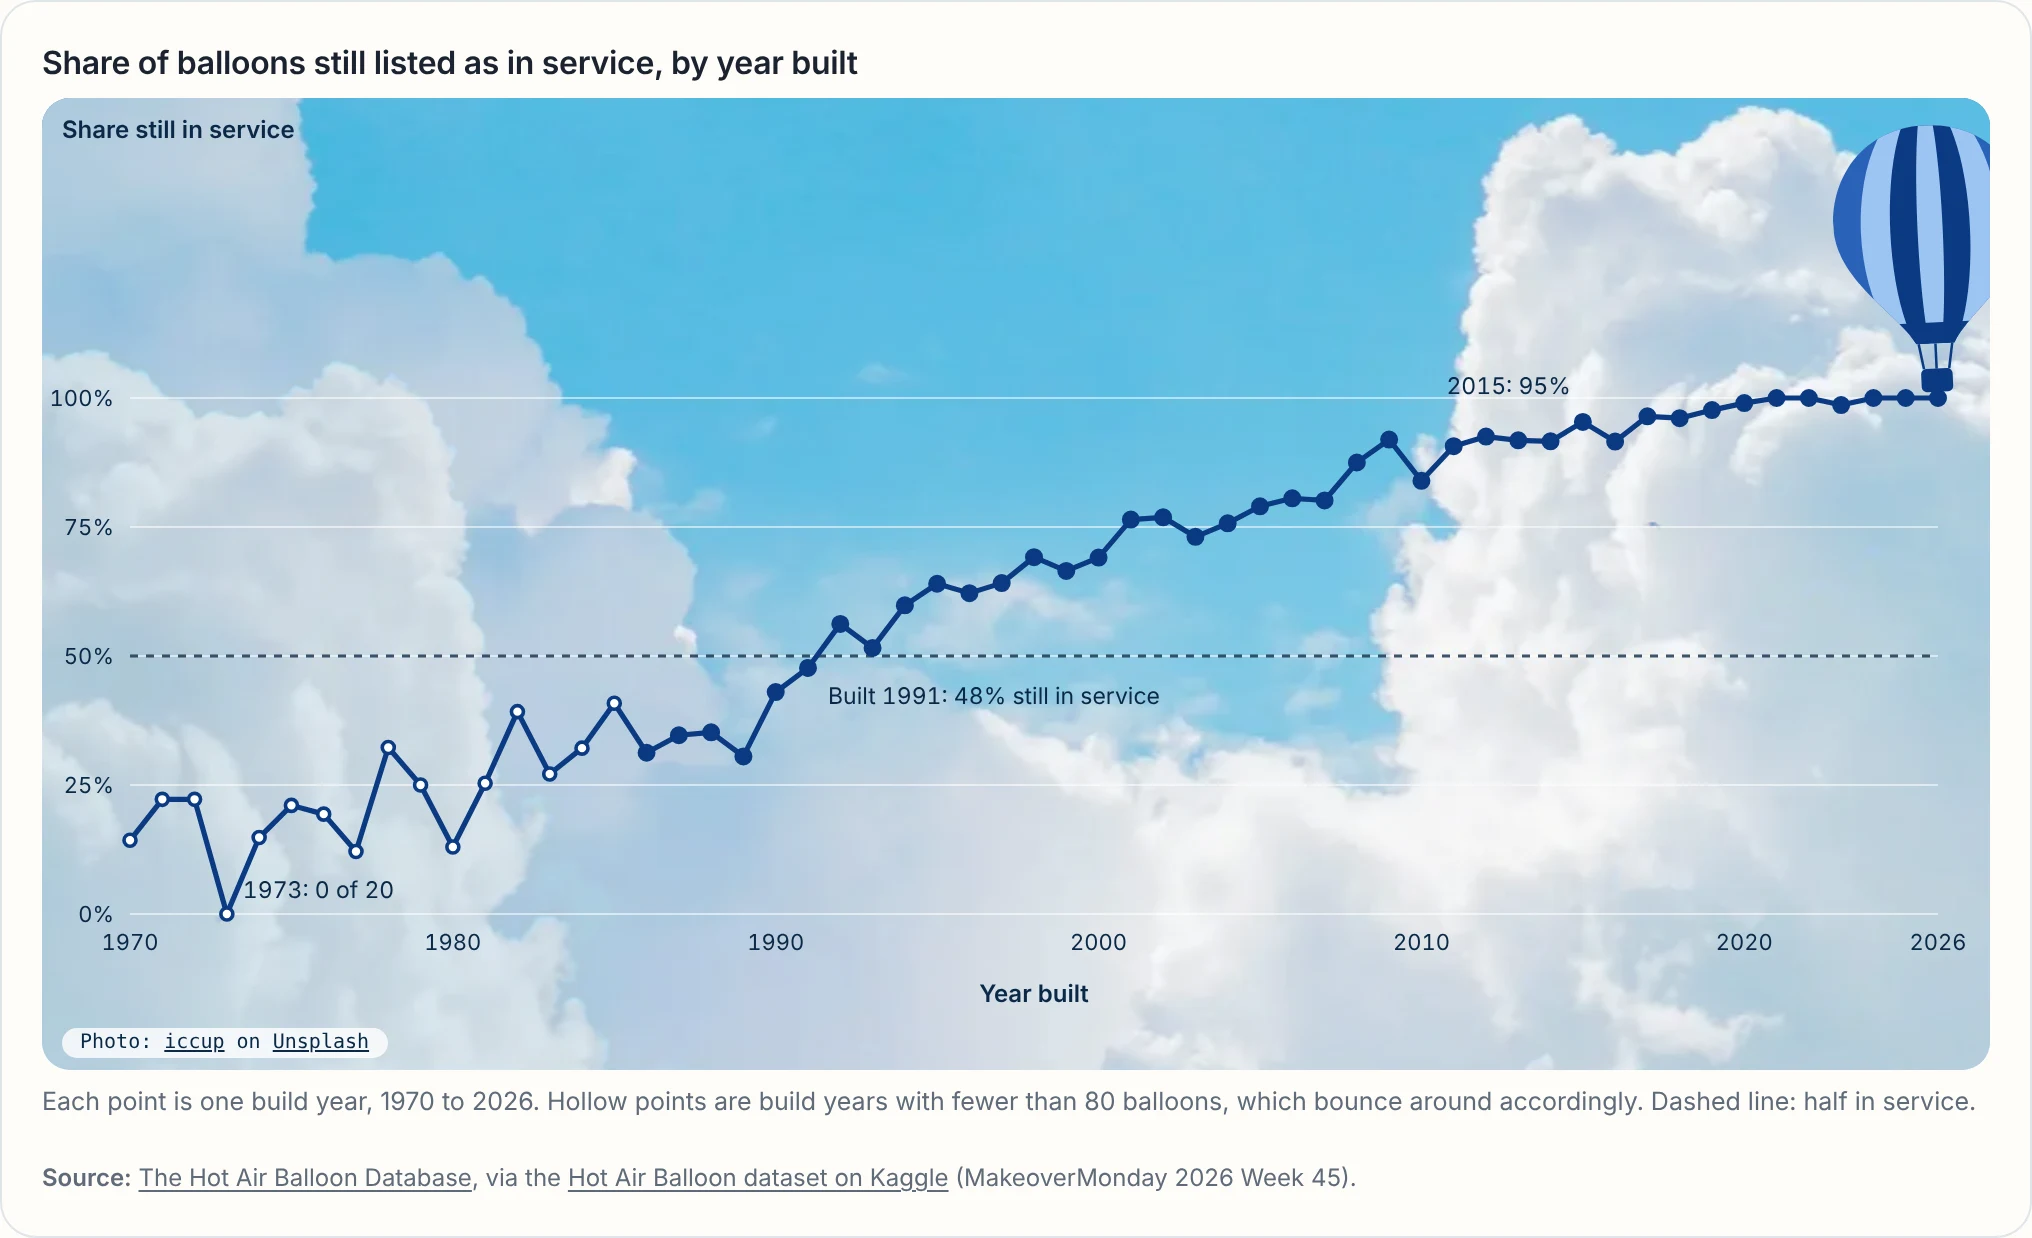
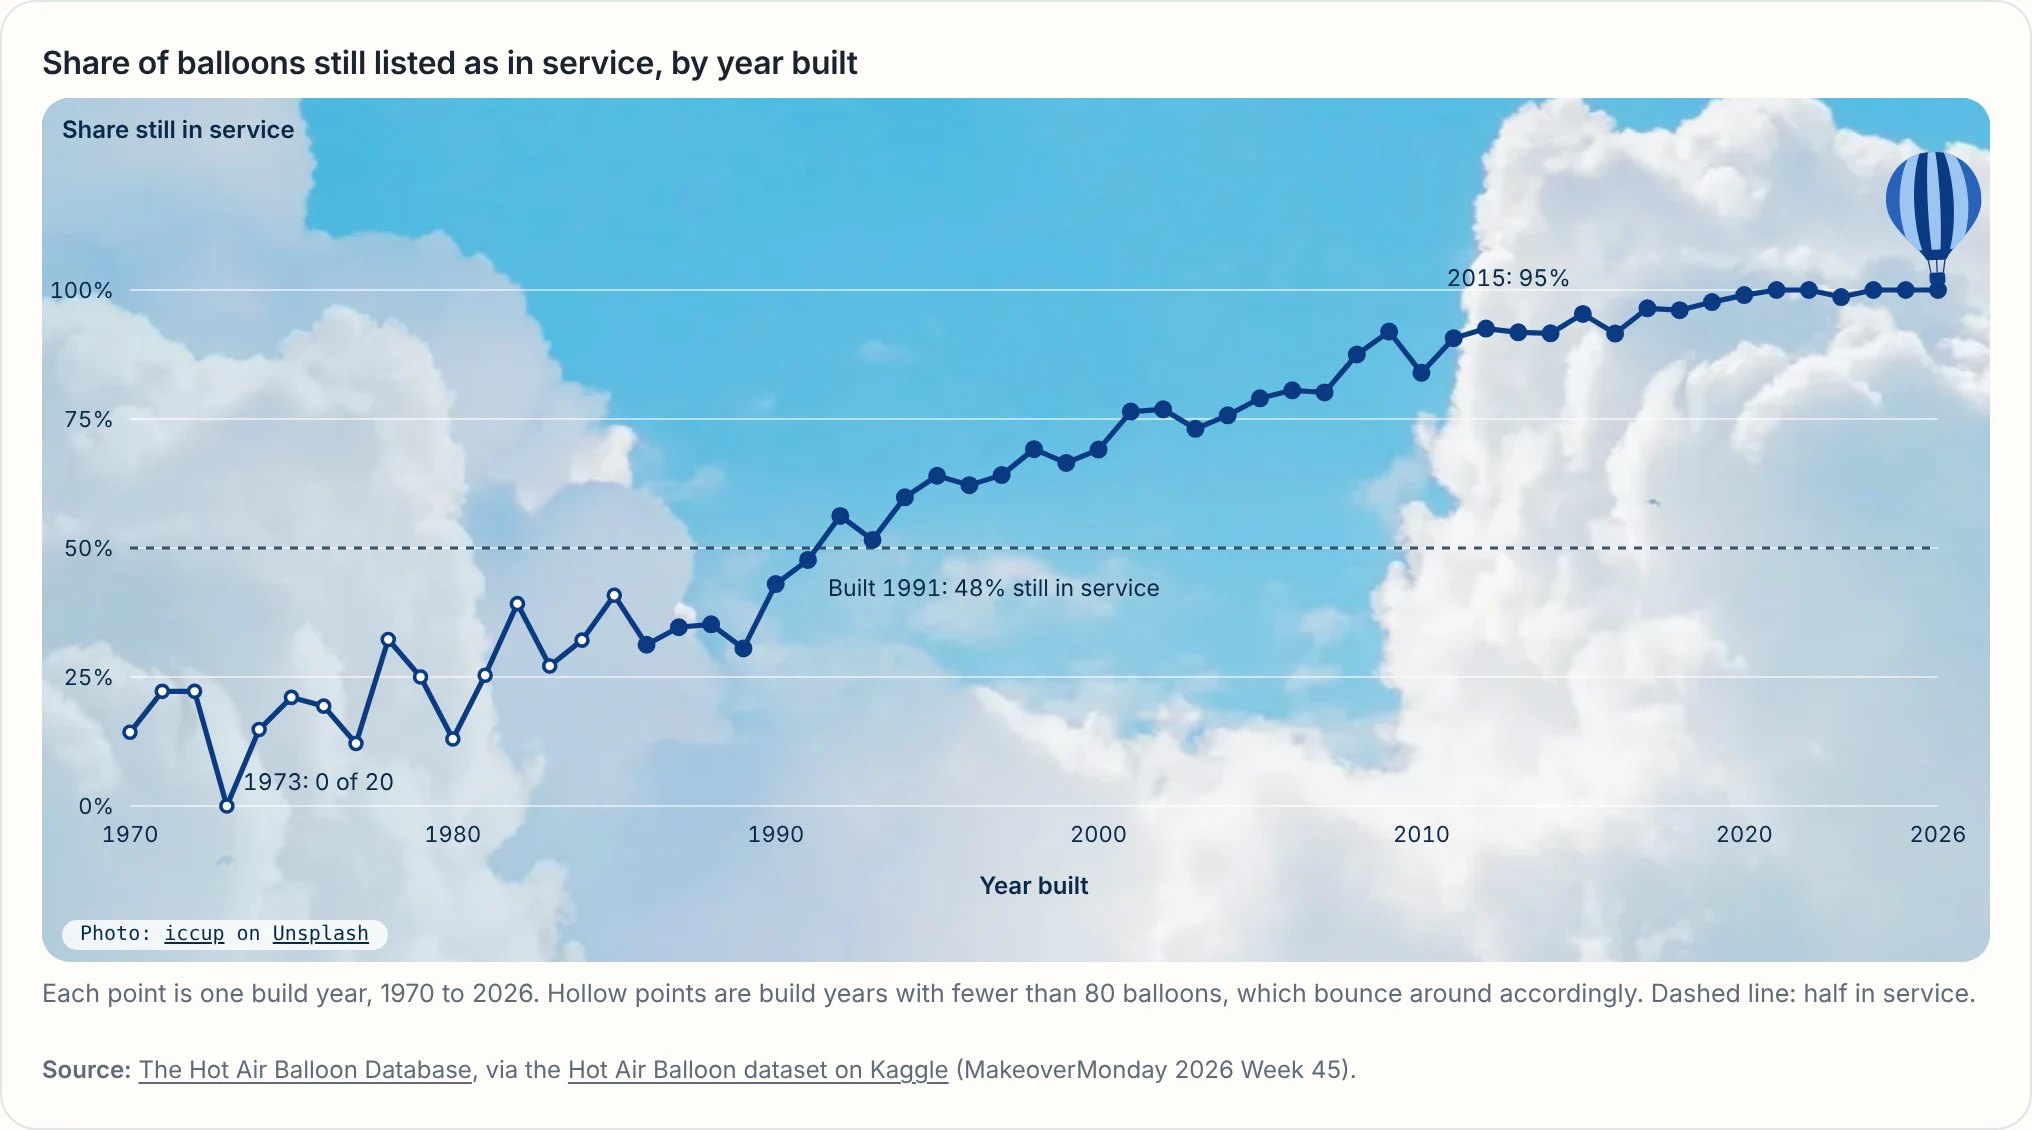
Halve the balloon size on the chart
Claude-Session: https://claude.ai/code/session_01UJ1HEyH6uF5w3cQEo98E3x

diff --git a/index.html b/index.html
@@ -173,7 +173,7 @@ else if(y){const ms=MS.filter(x=>x.y===+y.dataset.y);const a=ms[0].i,b=ms[ms.len
 else return;tl();draw()};
 document.getElementById("clr").onclick=()=>{S.a=S.b=null;S.pend=false;tl();draw()};
 tl();draw();
-const FEAT=[{"k": "mn-dist", "u": "mn-turkey/", "t": "How far would the turkeys have to travel if Mexico said no?", "o": "Mexico takes 71% of Minnesota's turkey export dollars from about 1,800 miles away, and 75% of all export dollars go to markets within 2,000 miles. If Mexico bought nothing and the other markets refilled the gap, the average mapped export dollar would travel about 2,500 miles instead of 1,910, and only 14% of all export dollars would stay within 2,000 miles. Distances are straight lines to capitals, and the dollars are estimates from 2023-era data. The pugs prefer their customers within barking distance.", "w": 2080, "h": 1539, "alt": [{"l": "How far?", "k": "mn-dist", "t": "How far would the turkeys have to travel if Mexico said no?", "o": "Mexico takes 71% of Minnesota's turkey export dollars from about 1,800 miles away, and 75% of all export dollars go to markets within 2,000 miles. If Mexico bought nothing and the other markets refilled the gap, the average mapped export dollar would travel about 2,500 miles instead of 1,910, and only 14% of all export dollars would stay within 2,000 miles. Distances are straight lines to capitals, and the dollars are estimates from 2023-era data. The pugs prefer their customers within barking distance."}, {"l": "Who refills?", "k": "mn-dist", "t": "Could anyone else buy Mexico's share of the turkeys?", "o": "Mexico takes an estimated $73.8 million of Minnesota's $104 million in turkey exports. To refill that gap, every other market would need to buy about 3.5 times as much (3.3 to 3.6 once rounding is allowed for), and the new customers would be farther away. It is arithmetic, not a forecast, on data about three years old. The pugs are not sure the neighbors have room in the freezer."}]}, {"k": "hb-surv", "u": "hot-air-balloons/", "t": "How long before a toy ends up in the closet?", "o": "A hot air balloon built in the early 1990s is a coin flip: 52% of the 1,052 built from 1990 to 1994 are still listed as in service, with a 95% range of 49% to 55%. From the 1970s it is 20%; from the 2010s, 93%. There is no cliff, just a steady climb, though this is a snapshot of the archive and not a true survival curve, so old balloons probably look more durable than they were. Watch the balloon lead the line up through the build years. The pug's toys last four minutes.", "w": 2032, "h": 1238}, {"k": "pz-ai", "u": "pisa-2025/", "t": "Did the chatbot do the homework?", "o": "Weekly AI use among 15-year-olds runs from 26% in Ireland to 69% in Viet Nam, and it shows no detectable link with a country’s math score: the rank correlation is −0.05, and it is +0.03 against the change since 2022. No paw prints on the scoreboard, though the pugs would still like a word with the robot.", "w": 1772, "h": 1132}, {"k": "mc-trend", "u": "more-cowbell/", "t": "When did the cowbell have rizz?", "o": "In the 1970s: 230 songs, 37% of every dated song on the list, peaking at 38 in 1975. After 2003 the list nearly runs dry, 13 songs in 22 years, which says more about the list than about cowbell. The pugs have a fever, and you know the prescription.", "w": 1800, "h": 1300}, {"k": "cc-map", "u": "census-century/", "t": "How far can the middle of a country wander?", "o": "Between 1790 and 1900 the estimated center of the U.S. population moved about 500 miles west, from near Baltimore to southern Indiana, averaging 67 feet a day. It was no steady stroll: 120 feet a day in the 1850s, barely 19 in the 1890s. Mostly a pug pack's pace.", "w": 1936, "h": 1306}, {"k": "bb-stops", "u": "bigs-backyard/", "t": "Why does everyone get tired at exactly 100 miles?", "o": "Across four championships, about 8% of the runners still going quit at exactly 24 yards, the 100-mile mark. In 2026 one team, Spain, stopped together there, which pushed the pile to 60. Without it, the pile is still twice the yards around it. Round numbers are a magnet, and teams make them stronger. The pugs call it a day at the mailbox.", "w": 1936, "h": 1522}, {"k": "bw-animals", "u": "bears-will-be-boys/", "t": "Where are all the girl frogs?", "o": "In these picture books, 16 of 17 frogs are he/him, which sounds damning. But the whole genre runs about two boys to one girl, and with so few frogs, luck is a fair defense. Five animals do stray past the luck line, birds and cats leaning girl and frogs and foxes leaning boy, though none is a sure outlier. The pugs are still watching the casting department.", "w": 1936, "h": 1360}, {"k": "tn-offseason", "u": "tourism-nights/", "t": "Cities stay busy after summer. Which regions jump at Christmas?", "o": "Only 41 of 237 EU regions get an even year’s share of nights in October to December, and the EU total, 18.1%, is pulled down by huge summer coasts. Cities stay level from October to December. Alsace, Northern and Eastern Finland and South-West Oltenia jump two to four times in December. The pugs follow the Christmas markets.", "w": 1832, "h": 1072}, {"k": "uf-rate", "u": "ufo-sightings/", "t": "Which states really keep their eyes on the sky, and which are just small?", "o": "Florida, California and Texas send the most UFO reports, but they also have the most people. Per resident, New Mexico leads with 11.8 reports per million against 4.0 nationally. Of 51 states, 19 fall outside the luck funnel, where a weighted coin dealing out the same 1,317 reports flags only about 3.5. California (3.0) and Texas (2.8) sit below the national rate. The pugs bark at the sky in every state, for the record.", "w": 1936, "h": 1172}, {"k": "cf-scatter", "u": "cfb-budgets/", "t": "Can you buy your way into the Top 25?", "o": "Not reliably. All ten of the biggest roster budgets are in the AP Top 25, but seven of the 25 biggest are not: Florida, South Carolina, Auburn, Nebraska, Clemson, Wisconsin and UCLA, together about $223M. Oregon has the 2nd-biggest budget and ranks 21st, while Houston, Iowa and Utah made the poll on the three smallest budgets of any ranked team. Pick your team on the page to follow its line. The pugs’ vote can be bought with treats.", "w": 1800, "h": 1852}];
+const FEAT=[{"k": "mn-dist", "u": "mn-turkey/", "t": "How far would the turkeys have to travel if Mexico said no?", "o": "Mexico takes 71% of Minnesota's turkey export dollars from about 1,800 miles away, and 75% of all export dollars go to markets within 2,000 miles. If Mexico bought nothing and the other markets refilled the gap, the average mapped export dollar would travel about 2,500 miles instead of 1,910, and only 14% of all export dollars would stay within 2,000 miles. Distances are straight lines to capitals, and the dollars are estimates from 2023-era data. The pugs prefer their customers within barking distance.", "w": 2080, "h": 1539, "alt": [{"l": "How far?", "k": "mn-dist", "t": "How far would the turkeys have to travel if Mexico said no?", "o": "Mexico takes 71% of Minnesota's turkey export dollars from about 1,800 miles away, and 75% of all export dollars go to markets within 2,000 miles. If Mexico bought nothing and the other markets refilled the gap, the average mapped export dollar would travel about 2,500 miles instead of 1,910, and only 14% of all export dollars would stay within 2,000 miles. Distances are straight lines to capitals, and the dollars are estimates from 2023-era data. The pugs prefer their customers within barking distance."}, {"l": "Who refills?", "k": "mn-dist", "t": "Could anyone else buy Mexico's share of the turkeys?", "o": "Mexico takes an estimated $73.8 million of Minnesota's $104 million in turkey exports. To refill that gap, every other market would need to buy about 3.5 times as much (3.3 to 3.6 once rounding is allowed for), and the new customers would be farther away. It is arithmetic, not a forecast, on data about three years old. The pugs are not sure the neighbors have room in the freezer."}]}, {"k": "hb-surv", "u": "hot-air-balloons/", "t": "How long before a toy ends up in the closet?", "o": "A hot air balloon built in the early 1990s is a coin flip: 52% of the 1,052 built from 1990 to 1994 are still listed as in service, with a 95% range of 49% to 55%. From the 1970s it is 20%; from the 2010s, 93%. There is no cliff, just a steady climb, though this is a snapshot of the archive and not a true survival curve, so old balloons probably look more durable than they were. Watch the balloon lead the line up through the build years. The pug's toys last four minutes.", "w": 2032, "h": 1130}, {"k": "pz-ai", "u": "pisa-2025/", "t": "Did the chatbot do the homework?", "o": "Weekly AI use among 15-year-olds runs from 26% in Ireland to 69% in Viet Nam, and it shows no detectable link with a country’s math score: the rank correlation is −0.05, and it is +0.03 against the change since 2022. No paw prints on the scoreboard, though the pugs would still like a word with the robot.", "w": 1772, "h": 1132}, {"k": "mc-trend", "u": "more-cowbell/", "t": "When did the cowbell have rizz?", "o": "In the 1970s: 230 songs, 37% of every dated song on the list, peaking at 38 in 1975. After 2003 the list nearly runs dry, 13 songs in 22 years, which says more about the list than about cowbell. The pugs have a fever, and you know the prescription.", "w": 1800, "h": 1300}, {"k": "cc-map", "u": "census-century/", "t": "How far can the middle of a country wander?", "o": "Between 1790 and 1900 the estimated center of the U.S. population moved about 500 miles west, from near Baltimore to southern Indiana, averaging 67 feet a day. It was no steady stroll: 120 feet a day in the 1850s, barely 19 in the 1890s. Mostly a pug pack's pace.", "w": 1936, "h": 1306}, {"k": "bb-stops", "u": "bigs-backyard/", "t": "Why does everyone get tired at exactly 100 miles?", "o": "Across four championships, about 8% of the runners still going quit at exactly 24 yards, the 100-mile mark. In 2026 one team, Spain, stopped together there, which pushed the pile to 60. Without it, the pile is still twice the yards around it. Round numbers are a magnet, and teams make them stronger. The pugs call it a day at the mailbox.", "w": 1936, "h": 1522}, {"k": "bw-animals", "u": "bears-will-be-boys/", "t": "Where are all the girl frogs?", "o": "In these picture books, 16 of 17 frogs are he/him, which sounds damning. But the whole genre runs about two boys to one girl, and with so few frogs, luck is a fair defense. Five animals do stray past the luck line, birds and cats leaning girl and frogs and foxes leaning boy, though none is a sure outlier. The pugs are still watching the casting department.", "w": 1936, "h": 1360}, {"k": "tn-offseason", "u": "tourism-nights/", "t": "Cities stay busy after summer. Which regions jump at Christmas?", "o": "Only 41 of 237 EU regions get an even year’s share of nights in October to December, and the EU total, 18.1%, is pulled down by huge summer coasts. Cities stay level from October to December. Alsace, Northern and Eastern Finland and South-West Oltenia jump two to four times in December. The pugs follow the Christmas markets.", "w": 1832, "h": 1072}, {"k": "uf-rate", "u": "ufo-sightings/", "t": "Which states really keep their eyes on the sky, and which are just small?", "o": "Florida, California and Texas send the most UFO reports, but they also have the most people. Per resident, New Mexico leads with 11.8 reports per million against 4.0 nationally. Of 51 states, 19 fall outside the luck funnel, where a weighted coin dealing out the same 1,317 reports flags only about 3.5. California (3.0) and Texas (2.8) sit below the national rate. The pugs bark at the sky in every state, for the record.", "w": 1936, "h": 1172}, {"k": "cf-scatter", "u": "cfb-budgets/", "t": "Can you buy your way into the Top 25?", "o": "Not reliably. All ten of the biggest roster budgets are in the AP Top 25, but seven of the 25 biggest are not: Florida, South Carolina, Auburn, Nebraska, Clemson, Wisconsin and UCLA, together about $223M. Oregon has the 2nd-biggest budget and ranks 21st, while Houston, Iowa and Utah made the poll on the three smallest budgets of any ranked team. Pick your team on the page to follow its line. The pugs’ vote can be bought with treats.", "w": 1800, "h": 1852}];
 (function potd(){const now=new Date(),day=Math.floor(Date.UTC(now.getFullYear(),now.getMonth(),now.getDate())/864e5),f=FEAT[day%FEAT.length],p=P.find(x=>x.u===f.u);if(!p)return;
 const q="q"+(Math.floor(p.mo/3)+1),el=document.getElementById("potd");el.className="potd-body "+q;
 document.getElementById("potd-date").textContent=now.toLocaleDateString("en-US",{weekday:"long",month:"long",day:"numeric",year:"numeric"});

diff --git a/hot-air-balloons/index.html b/hot-air-balloons/index.html
@@ -368,8 +368,8 @@ function skyBalloon(parent,s){
   el("line",{x1:0,y1:-3,x2:0,y2:0,stroke:"#0b3a82","stroke-width":1.4},g);
   return{g,flame:el("g",{},g)}}
 
-function surv(){const d=D.surv,{svg,w,h,hit,small}=stage("c-surv",486,"Animated line chart: share of balloons still in service rises from about 15 percent for 1970s builds to nearly 100 percent for 2020s builds, crossing one half around 1991");
-  const L=44,R=26,T=150,B=78,x=lin(1970,2026,L,w-R),y=lin(0,1,h-B,T),INK="#0b3a82";
+function surv(){const d=D.surv,{svg,w,h,hit,small}=stage("c-surv",432,"Animated line chart: share of balloons still in service rises from about 15 percent for 1970s builds to nearly 100 percent for 2020s builds, crossing one half around 1991");
+  const L=44,R=26,T=96,B=78,x=lin(1970,2026,L,w-R),y=lin(0,1,h-B,T),INK="#0b3a82";
   txt(svg,"Share still in service",{x:10,y:20,class:"axt"});txt(svg,"Year built",{x:(L+w-R)/2,y:h-B+44,"text-anchor":"middle",class:"axt"});
   [0,.25,.5,.75,1].forEach(t=>{el("line",{x1:L,x2:w-R,y1:y(t),y2:y(t),class:"gl"},svg);txt(svg,pct(t),{x:L-8,y:y(t)+4,"text-anchor":"end",class:"tick"})});
   (small?[1970,1990,2010,2026]:[1970,1980,1990,2000,2010,2020,2026]).forEach(t=>txt(svg,t,{x:x(t),y:h-B+18,"text-anchor":"middle",class:"tick"}));
@@ -380,7 +380,7 @@ function surv(){const d=D.surv,{svg,w,h,hit,small}=stage("c-surv",486,"Animated 
   const dots=d.map(p=>el("circle",{cx:x(p.y),cy:y(p.in/p.n),r:p.n<80?3:4,fill:p.n<80?"#fff":INK,stroke:INK,"stroke-width":p.n<80?1.8:1,class:"sd"},svg));
   const labs=[];const lab=(yr,s,dx,dy,a)=>{const p=d.find(q=>q.y===yr);const t=txt(svg,s.replace("%",pct(p.in/p.n)),{x:x(yr)+dx,y:y(p.in/p.n)+dy,"text-anchor":a,class:"lab"});labs.push([x(yr),t])};
   lab(1991,small?"1991: %":"Built 1991: % still in service",10,18,"start");lab(1973,"1973: 0 of 20",8,-8,"start");lab(2015,"2015: %",-6,-14,"end");
-  const bl=skyBalloon(svg,small?.78:1.05);
+  const bl=skyBalloon(svg,small?.42:.52);
   const cur=el("line",{y1:T,y2:h-B,stroke:"rgba(11,41,71,.55)","stroke-width":1,visibility:"hidden"},svg);
   const r=el("rect",{x:L,y:T,width:w-L-R,height:h-T-B,class:"hit"},svg);
   hit(r,e=>{const bx=svg.getBoundingClientRect(),yr=Math.round(1970+(e.clientX-bx.left-L)/(w-L-R)*56),p=d.reduce((a,b)=>Math.abs(b.y-yr)<Math.abs(a.y-yr)?b:a);
